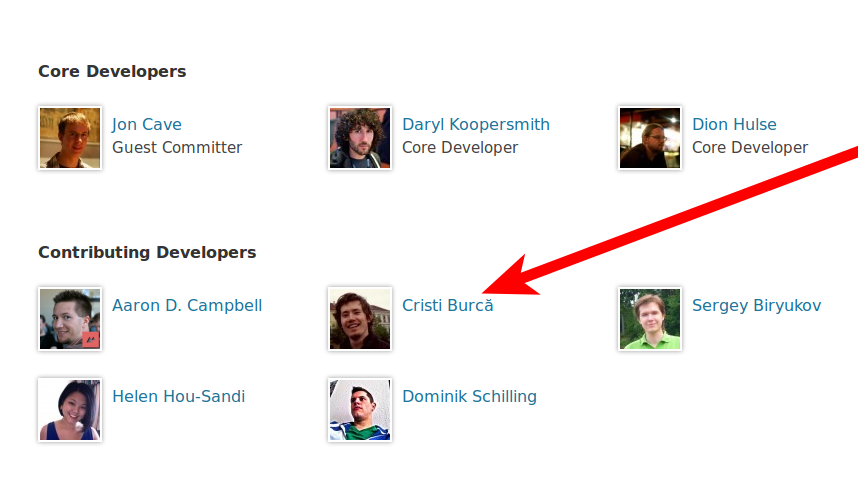
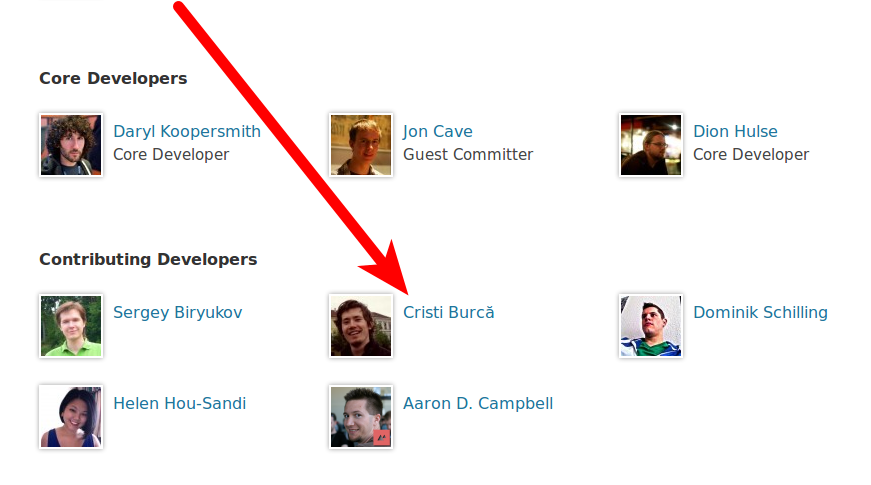
fix arrow in contributors.png; rename: slide_title -> title -> main-title

diff --git a/src/template.html b/src/template.html
@@ -14,7 +14,7 @@
 
 <html>
 <head>
-	<title>{{title}}</title>
+	<title>{{main-title}}</title>
 
 	<meta charset='utf-8'>
 	<script src='../assets/slides.js'></script>
@@ -33,9 +33,9 @@
 		<h1>{{{slogan}}}</h1>
 		{{/slogan}}
 
-		{{#slide_title}}
-		<h3>{{{slide_title}}}</h3>
-		{{/slide_title}}
+		{{#title}}
+		<h3>{{{title}}}</h3>
+		{{/title}}
 
 		{{#primary_text}}
 		<p class="primary">{{{primary_text}}}</p>
